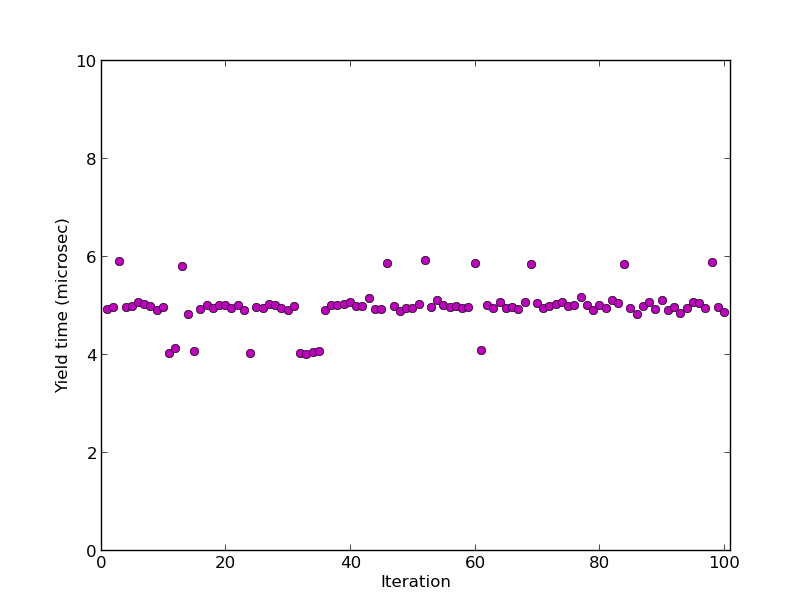
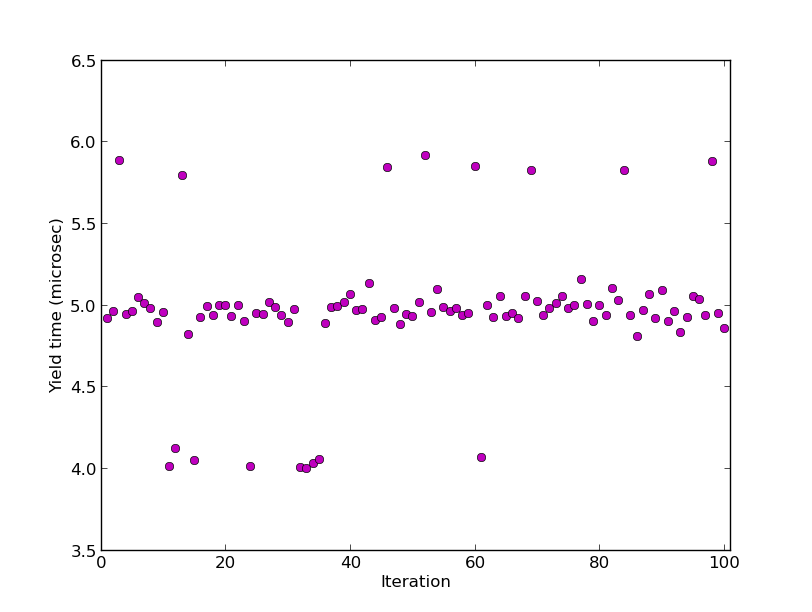
Modified graph script and saved new images for efficient yield.

diff --git a/Testing/MicroTests/graphs.py b/Testing/MicroTests/graphs.py
@@ -9,7 +9,7 @@ def main():
   for line in f:
     nums.append(float(line))
   pylab.plot(range(1,101), nums, 'mo')
-  pylab.axis([0, 101, 0, 10]) # xmin, xmax, ymin, ymax
+  pylab.axis([0, 101, 3.5, 6.5]) # xmin, xmax, ymin, ymax
   pylab.xlabel('Iteration')
   pylab.ylabel('Yield time (microsec)')
   pylab.show()
@@ -19,7 +19,7 @@ def main():
   for line in unyield:
     n.append(float(line))
   pylab.plot(range(1,101), n, 'bo')
-  pylab.axis([0, 101, 0, 1]) # xmin, xmax, ymin, ymax
+  pylab.axis([0, 101, 0.025, .05]) # xmin, xmax, ymin, ymax
   pylab.xlabel('Iteration')
   pylab.ylabel('Yield time (microsec)')
   pylab.show()
